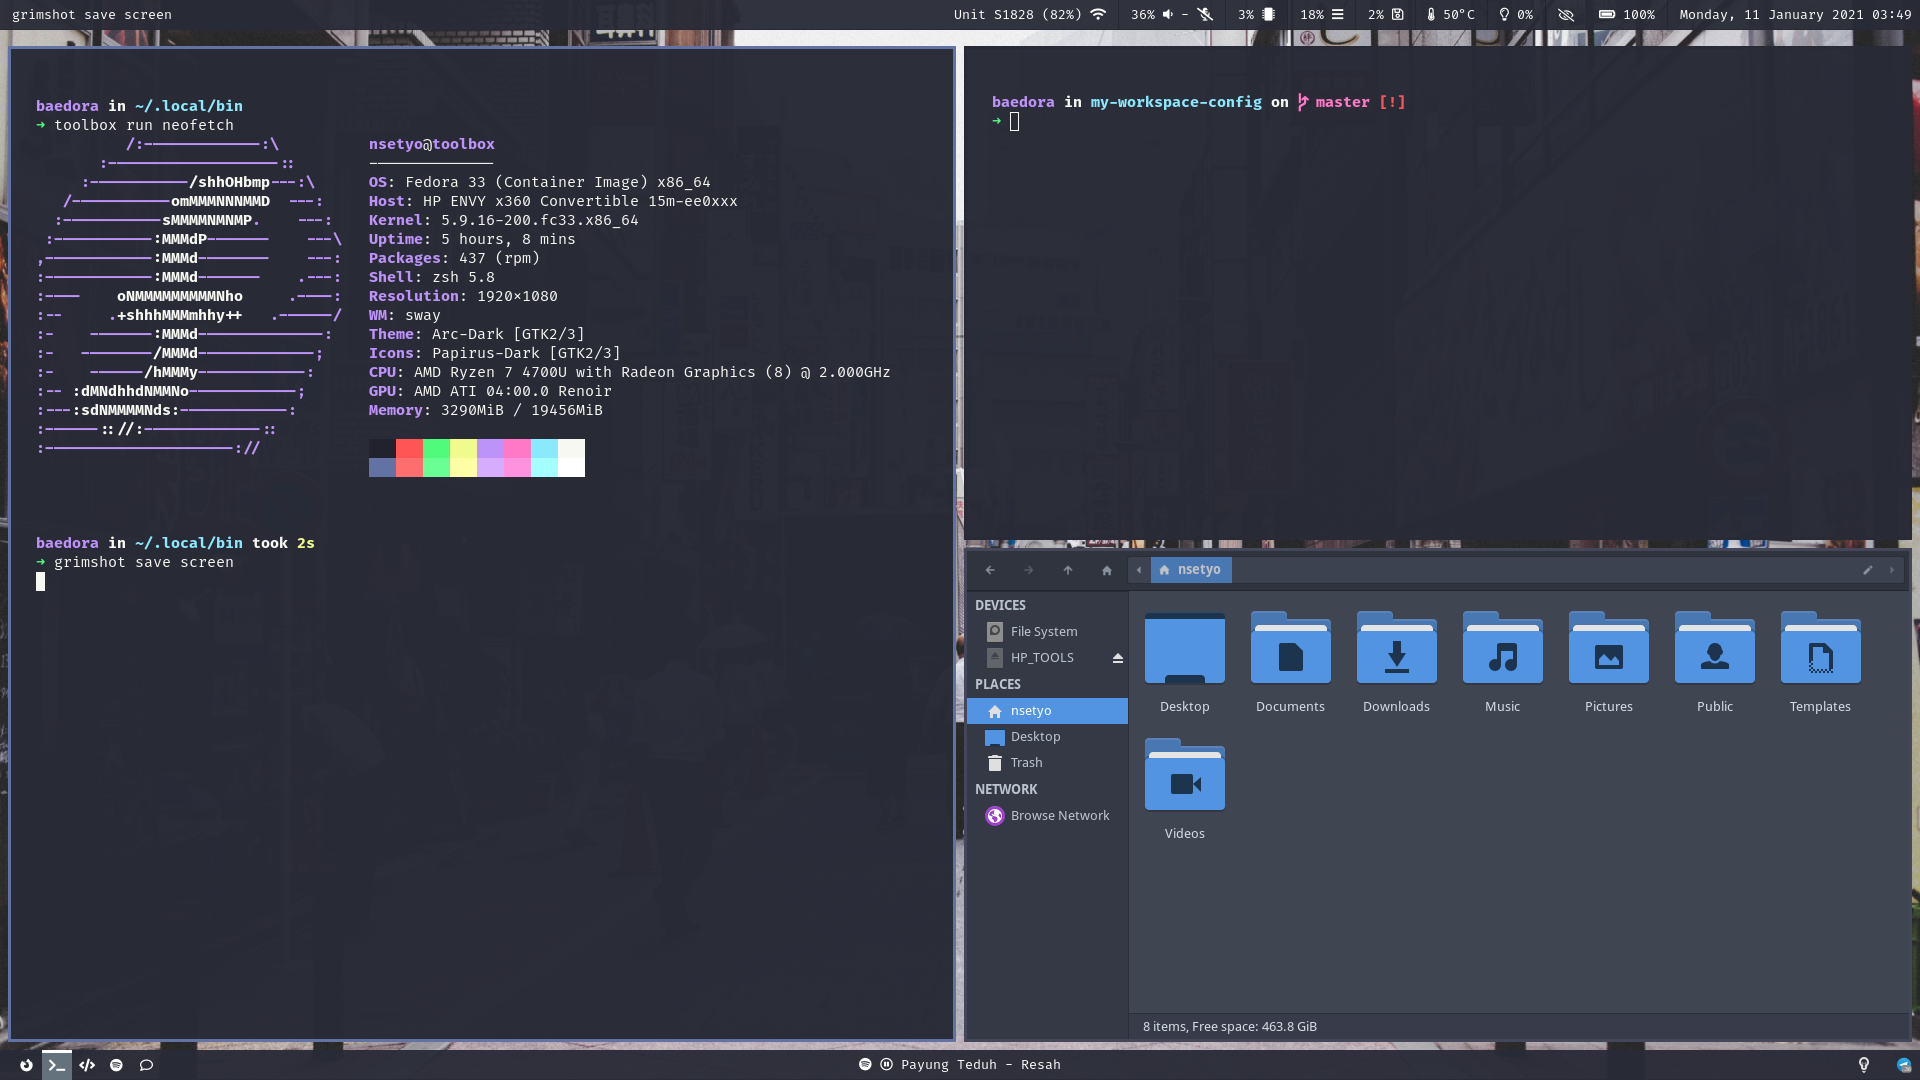
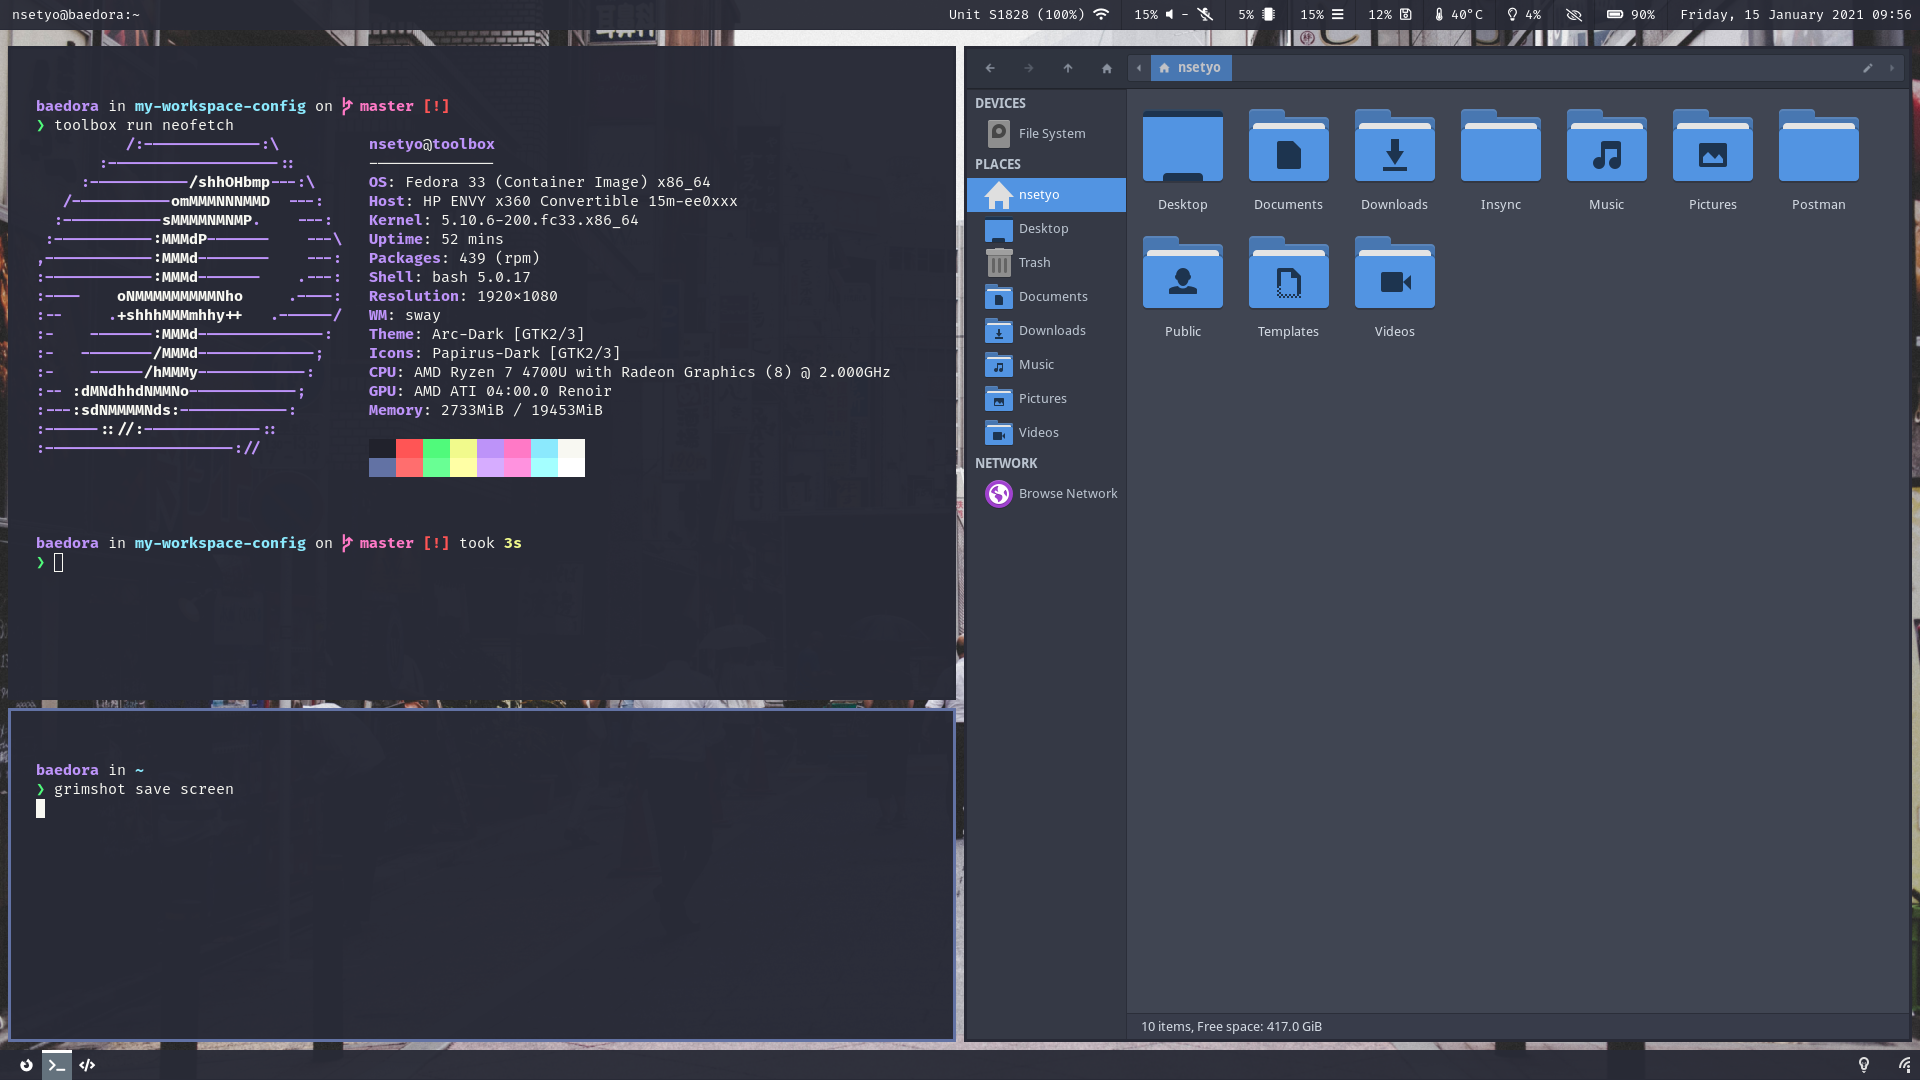
Update readme and screenshot shell

diff --git a/README.md b/README.md
@@ -6,7 +6,7 @@
 ### Configurations
 - **OS**: [Fedora](https://getfedora.org/)
 - **Terminal**: [Kitty](https://sw.kovidgoyal.net/kitty/)
-- **Shell**: Zsh with [OhMyZsh](https://ohmyz.sh/) 
+- **Shell**: Bash with [Starship](https://starship.rs/) 
 - **WM**: [Sway](https://github.com/swaywm/sway)
 - **Panel**: [Waybar](https://github.com/Alexays/Waybar)
 - **Launcher**: [Wofi](https://hg.sr.ht/~scoopta/wofi)
